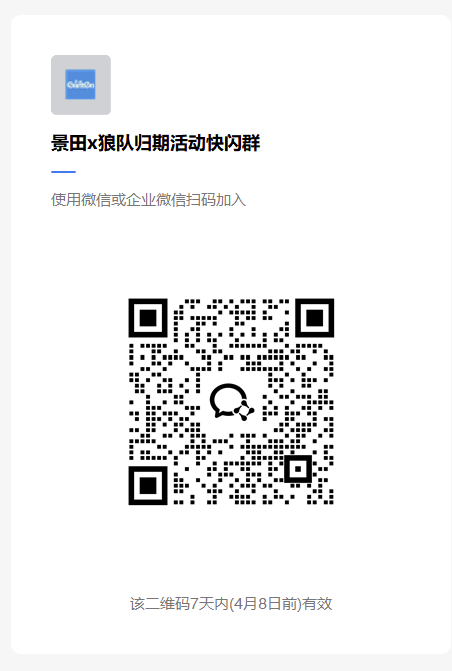
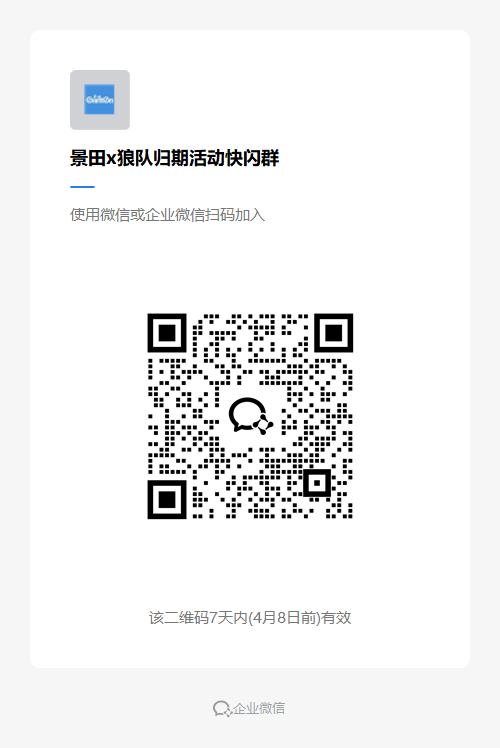
Add files via upload

diff --git a/index.html b/index.html
@@ -10,7 +10,7 @@
       --card: #ffffff;
       --text: #1f2937;
       --muted: #6b7280;
-      --primary: #0f766e;
+      --primary: rgb(65, 143, 222);
       --danger: #b91c1c;
       --ok: #166534;
       --border: #e5e7eb;
@@ -31,13 +31,13 @@
       background: var(--card);
       border: 1px solid var(--border);
       border-radius: 16px;
-      box-shadow: 0 12px 40px rgba(15, 118, 110, 0.12);
+      box-shadow: 0 12px 40px rgba(65, 143, 222, 0.2);
       overflow: hidden;
     }
     .header {
       padding: 20px 24px;
       border-bottom: 1px solid var(--border);
-      background: linear-gradient(135deg, #0f766e, #155e75);
+      background: linear-gradient(135deg, rgb(65, 143, 222), rgb(54, 120, 188));
       color: #fff;
     }
     .header h1 { margin: 0; font-size: 24px; line-height: 1.3; }
@@ -56,7 +56,7 @@
       gap: 10px;
       align-items: center;
     }
-    .option:hover { border-color: #5eead4; background: #f0fdfa; }
+    .option:hover { border-color: rgb(65, 143, 222); background: #eef5fd; }
     .option input { margin: 0; }
     button {
       border: 0;
@@ -92,7 +92,7 @@
   <main class="card">
     <div class="header">
       <h1>归期知识问卷</h1>
-      <p>规则：共 10 题，答错即结束；第1题为问答题，第6题为多选题，其余为单选题。</p>
+      <p>规则：共 10 题，答错即结束；第1题为问答题，第6题为多选题，其余为单选题。可重复答题。</p>
     </div>
 
     <div class="content" id="quizView">
@@ -107,6 +107,9 @@
         <h2>答题结束</h2>
         <p id="failText"></p>
       </div>
+      <div style="margin-top: 14px;">
+        <button id="restartFromFail" type="button">重新开始</button>
+      </div>
     </div>
 
     <div class="content hidden" id="successView">
@@ -115,12 +118,13 @@
         <p>请扫码加入群聊：</p>
         <img class="qr" src="assets/group-qr.png" alt="群聊二维码" />
       </div>
+      <div style="margin-top: 14px;">
+        <button id="restartFromSuccess" type="button">再答一次</button>
+      </div>
     </div>
   </main>
 
   <script>
-    const STORAGE_KEY = "guiqi_quiz_session_v3";
-
     const questions = [
       {
         type: "text",
@@ -149,7 +153,7 @@
       {
         type: "single",
         title: "5. 归期喜欢小动物吗？",
-        options: ["不喜欢", "喜欢", "一般", "不确定"],
+        options: ["不喜欢", "喜欢", "一般", "偶尔喜欢"],
         correct: "不喜欢"
       },
       {
@@ -161,8 +165,8 @@
       {
         type: "single",
         title: "7. 归期登场 KPL 后的第一个冠军是哪一年的什么比赛？",
-        options: ["2023年王者荣耀挑战者杯（2023挑杯）", "2023年KPL春季赛", "2024年王者荣耀挑战者杯", "2022年世界冠军杯"],
-        correct: "2023年王者荣耀挑战者杯（2023挑杯）"
+        options: ["2023年王者荣耀挑战者杯", "2023年KPL春季赛", "2024年王者荣耀挑战者杯", "2022年世界冠军杯"],
+        correct: "2023年王者荣耀挑战者杯"
       },
       {
         type: "single",
@@ -187,34 +191,9 @@
     const defaultState = {
       index: 0,
       status: "in_progress", // in_progress | failed | passed
-      failedAt: null,
-      updatedAt: Date.now()
+      failedAt: null
     };
-
-    function readState() {
-      try {
-        const raw = localStorage.getItem(STORAGE_KEY);
-        if (!raw) return { ...defaultState };
-        const parsed = JSON.parse(raw);
-        if (!parsed || typeof parsed !== "object") return { ...defaultState };
-        if (!["in_progress", "failed", "passed"].includes(parsed.status)) return { ...defaultState };
-        if (typeof parsed.index !== "number") return { ...defaultState };
-        return {
-          ...defaultState,
-          ...parsed,
-          index: Math.max(0, Math.min(parsed.index, questions.length))
-        };
-      } catch {
-        return { ...defaultState };
-      }
-    }
-
-    function writeState() {
-      state.updatedAt = Date.now();
-      localStorage.setItem(STORAGE_KEY, JSON.stringify(state));
-    }
-
-    let state = readState();
+    let state = { ...defaultState };
 
     const quizView = document.getElementById("quizView");
     const failView = document.getElementById("failView");
@@ -224,6 +203,8 @@
     const optionForm = document.getElementById("optionForm");
     const submitBtn = document.getElementById("submitBtn");
     const failText = document.getElementById("failText");
+    const restartFromFail = document.getElementById("restartFromFail");
+    const restartFromSuccess = document.getElementById("restartFromSuccess");
 
     function showOnly(view) {
       [quizView, failView, successView].forEach(v => v.classList.add("hidden"));
@@ -316,7 +297,7 @@
     function renderByState() {
       if (state.status === "failed") {
         const failAt = (state.failedAt || 0) + 1;
-        failText.textContent = `你在第 ${failAt} 题选择错误，本次问卷已锁定结束。`;
+        failText.textContent = `你在第 ${failAt} 题选择错误，本轮答题已结束。`;
         showOnly(failView);
         return;
       }
@@ -328,7 +309,6 @@
 
       if (state.index >= questions.length) {
         state.status = "passed";
-        writeState();
         showOnly(successView);
         return;
       }
@@ -350,7 +330,6 @@
       if (!isCorrectAnswer(current, answer)) {
         state.status = "failed";
         state.failedAt = state.index;
-        writeState();
         renderByState();
         return;
       }
@@ -359,16 +338,16 @@
       if (state.index >= questions.length) {
         state.status = "passed";
       }
-      writeState();
       renderByState();
     });
 
-    // Prevent browser back from leaving/replaying the page flow.
-    history.pushState({ quiz: true }, "", location.href);
-    window.addEventListener("popstate", () => {
-      history.pushState({ quiz: true }, "", location.href);
-      alert("问卷进行中，已禁用回退。");
-    });
+    function restartQuiz() {
+      state = { ...defaultState };
+      renderByState();
+    }
+
+    restartFromFail.addEventListener("click", restartQuiz);
+    restartFromSuccess.addEventListener("click", restartQuiz);
 
     renderByState();
   </script>
